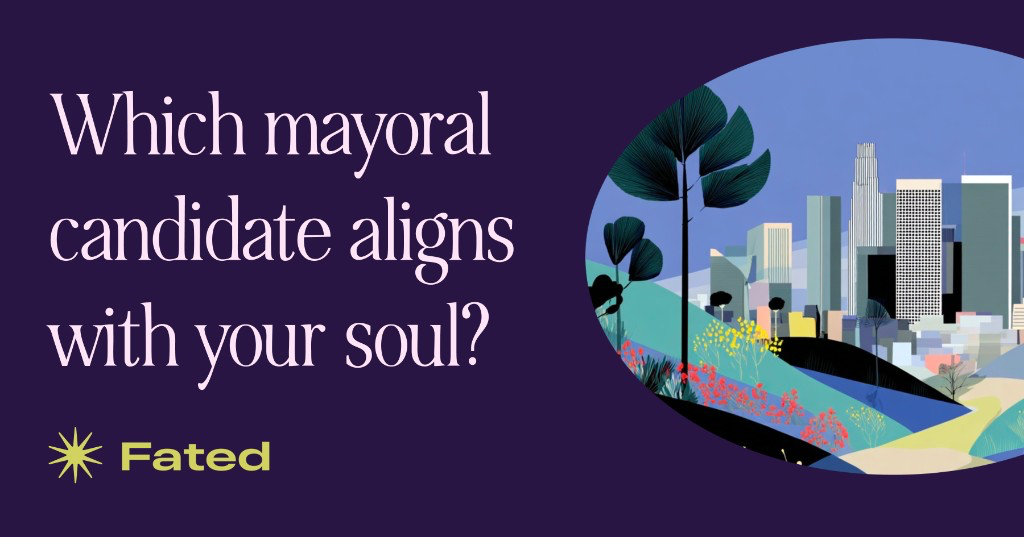
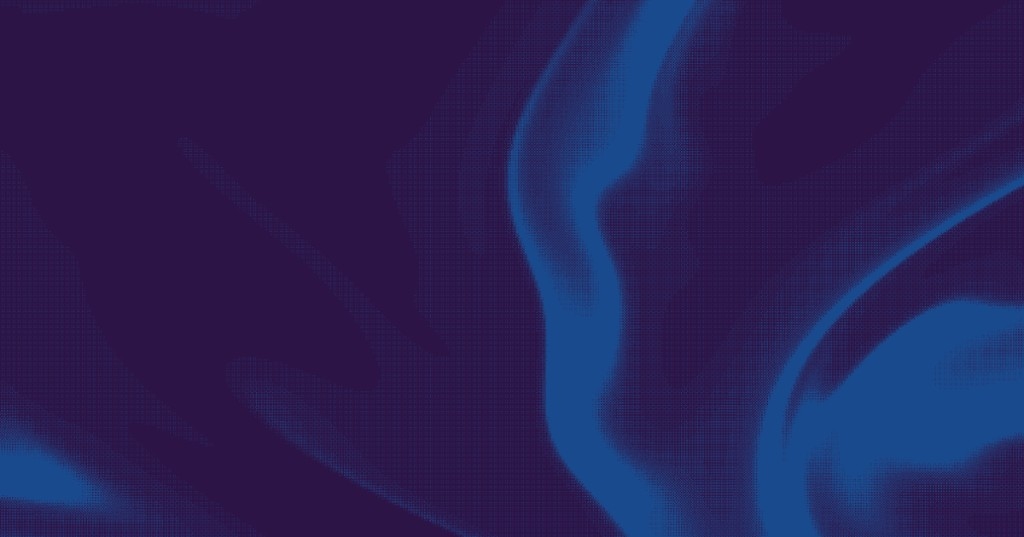
UI: polish homepage/result presentation and footer links
Refines card labeling, homepage/footer copy and link styling, updates share spacing behavior, and swaps the social preview image to align the election experience with current messaging and visual direction.

diff --git a/src/components/ResultPage.js b/src/components/ResultPage.js
@@ -71,7 +71,7 @@ const LargeCard = ({
           <ResultTiltCard style={{ position: 'relative', width: '100%', height: '100%' }}>
             <div style={{ backgroundColor: pink, borderRadius: '6px', boxShadow: largeCardShadow, height: '100%', outline: `1px solid ${purple}`, position: 'relative', width: '100%' }}>
               <div style={{ color: purple, fontFamily: monoPro, fontSize: '20px', left: '50%', letterSpacing: '0.05em', lineHeight: '24px', position: 'absolute', textAlign: 'center', top: 27, transform: 'translateX(-50%)', width: 276, zIndex: 1 }}>
-                {name}
+                {arcana}
               </div>
               {img && (
                 <div
@@ -91,7 +91,7 @@ const LargeCard = ({
                 />
               )}
               <div style={{ color: purple, fontFamily: monoPro, fontSize: '20px', left: '50%', letterSpacing: '0.05em', lineHeight: '24px', position: 'absolute', textAlign: 'center', top: 461, transform: 'translateX(-50%)', width: 294, zIndex: 1 }}>
-                {arcana}
+                {name}
               </div>
             </div>
           </ResultTiltCard>
@@ -150,7 +150,7 @@ const LargeCard = ({
               width: '100%',
             }}
           >
-            <div style={titleStyle}>{name}</div>
+            <div style={titleStyle}>{arcana}</div>
             {img && (
               <div
                 style={{
@@ -162,7 +162,13 @@ const LargeCard = ({
                 }}
               >
                 <img
-                  alt={name ? `${name} illustration` : 'Tarot card illustration'}
+                  alt={
+                    name && arcana
+                      ? `${arcana}, ${name} illustration`
+                      : name
+                        ? `${name} illustration`
+                        : 'Tarot card illustration'
+                  }
                   src={img}
                   style={{
                     display: 'block',
@@ -174,7 +180,7 @@ const LargeCard = ({
                 />
               </div>
             )}
-            <div style={titleStyle}>{arcana}</div>
+            <div style={titleStyle}>{name}</div>
           </div>
         </ResultTiltCard>
       </div>
@@ -239,6 +245,13 @@ const SHARE_BAR_ROW_MIN_PX = 54
 const SHARE_BAR_PADDING_BOTTOM_PX = 16
 /** Backdrop blur only reaches this far above the button row (gradient still fades higher). */
 const SHARE_BAR_BLUR_ABOVE_BUTTONS_PX = 16
+/** Tall top padding on fixed bar backdrop — gradient fades upward; must match scroll clearance calc below. */
+const SHARE_FLOATING_BACKDROP_PADDING_TOP = 'clamp(140px, 32vh, 420px)'
+/**
+ * Bottom padding on `<main>` so scrolled content (e.g. Your Charge) clears the fixed Start over / Share
+ * gradient (same vertical extent as `SHARE_FLOATING_BACKDROP_PADDING_TOP` + button row).
+ */
+const SHARE_FLOATING_BAR_SCROLL_CLEARANCE = `calc(${SHARE_FLOATING_BACKDROP_PADDING_TOP} + ${SHARE_BAR_ROW_MIN_PX}px + ${SHARE_BAR_PADDING_BOTTOM_PX}px + 24px + env(safe-area-inset-bottom, 0px))`
 
 const SHARE_BACKDROP_DEFAULTS = {
   background:
@@ -297,7 +310,7 @@ const ShareFloatingBar = ({ desktop, children }) => {
     paddingBottom: `calc(${SHARE_BAR_PADDING_BOTTOM_PX}px + env(safe-area-inset-bottom, 0px))`,
     paddingLeft: 0,
     paddingRight: 0,
-    paddingTop: 'clamp(140px, 32vh, 420px)',
+    paddingTop: SHARE_FLOATING_BACKDROP_PADDING_TOP,
     position: 'relative',
     WebkitBackdropFilter: d.WebkitBackdropFilter,
     width: '100%',
@@ -900,15 +913,16 @@ const ResultPage = ({
           <TopBar />
           <ClientOnlyDithering
             className="site-hero-dither"
+            instantReveal
             speed={0.27}
             shape="warp"
             type="4x4"
             size={0.2}
             scale={1}
-            colorBack="#00000000"
-            colorFront="#274988"
+            colorBack="#274988"
+            colorFront="#291543"
             style={{
-              backgroundColor: '#291543',
+              backgroundColor: '#274988',
               height: '1031px',
               left: '50%',
               position: 'absolute',
@@ -990,8 +1004,8 @@ const ResultPage = ({
                 type="8x8"
                 size={0.3}
                 scale={0.53}
-                colorBack="#00000000"
-                colorFront="#5E67AA"
+                colorBack="#5E67AA"
+                colorFront="#291543"
                 style={{ bottom: 0, left: 0, position: 'absolute', right: 0, top: 0, width: '100%', zIndex: 0 }}
               />
               <div style={{ position: 'relative', textAlign: 'center', zIndex: 1 }}>
@@ -1067,6 +1081,15 @@ const ResultPage = ({
             {charge}
           </div>
         </div>
+        <div
+          aria-hidden="true"
+          style={{
+            backgroundColor: '#5E67AC',
+            height: SHARE_FLOATING_BAR_SCROLL_CLEARANCE,
+            minHeight: SHARE_FLOATING_BAR_SCROLL_CLEARANCE,
+            width: '100%',
+          }}
+        />
       </main>
     )
   }
@@ -1092,14 +1115,15 @@ const ResultPage = ({
 
         <ClientOnlyDithering
           className="site-hero-dither"
+          instantReveal
           speed={0.27}
           shape="warp"
           type="4x4"
           size={0.2}
           scale={1}
-          colorBack="#00000000"
-          colorFront="#274988"
-          style={{ backgroundColor: '#291543', height: '823px', left: 0, position: 'absolute', top: 0, width: '100%', zIndex: 0 }}
+          colorBack="#274988"
+          colorFront="#291543"
+          style={{ backgroundColor: '#274988', height: '823px', left: 0, position: 'absolute', top: 0, width: '100%', zIndex: 0 }}
         />
         <ShareButton title={drew?.replace('\n', '')} text={shareText || soulCandidate} desktop={false} shareImageUrl={shareImage} />
 
@@ -1155,8 +1179,8 @@ const ResultPage = ({
                   type="8x8"
                   size={0.3}
                   scale={0.53}
-                  colorBack="#00000000"
-                  colorFront="#5E67AA"
+                  colorBack="#5E67AA"
+                  colorFront="#291543"
                   style={{ height: '696px', left: 0, position: 'absolute', top: 0, width: '100%', zIndex: 0 }}
                 />
                 <div style={{ color: pink, fontFamily: noirBold, fontSize: '24px', lineHeight: '32px', position: 'relative', textAlign: 'center', whiteSpace: 'pre-wrap', zIndex: 1 }}>
@@ -1239,6 +1263,15 @@ const ResultPage = ({
               {charge}
             </div>
           </div>
+          <div
+            aria-hidden="true"
+            style={{
+              backgroundColor: '#5E67AC',
+              height: SHARE_FLOATING_BAR_SCROLL_CLEARANCE,
+              minHeight: SHARE_FLOATING_BAR_SCROLL_CLEARANCE,
+              width: '100%',
+            }}
+          />
 
       </div>
 

diff --git a/src/pages/index.js b/src/pages/index.js
@@ -119,11 +119,11 @@ const TeaserCardStack = ({ activeIndex }) => (
 const CarouselCard = ({ name, arcana, img, imgPosition }) => (
   <div style={{ backgroundColor: pink, boxShadow: `0 0 0 1px ${purple}`, borderRadius: '6px', flexShrink: 0, height: '292px', marginRight: '10px', position: 'relative', width: '155px' }}>
     <div style={{ color: purple, fontFamily: monoPro, fontSize: '10px', left: 0, letterSpacing: '0.05em', lineHeight: '12px', position: 'absolute', textAlign: 'center', top: 12, width: '100%' }}>
-      {name}
+      {arcana}
     </div>
     {img && <div style={{ backgroundImage: `url(${img})`, backgroundPosition: imgPosition || 'center', backgroundSize: 'cover', borderRadius: '2px', boxShadow: `0 0 0 1px ${purple}`, height: '214px', left: 21, position: 'absolute', top: 37, width: '114px' }} />}
     <div style={{ color: purple, fontFamily: monoPro, fontSize: '10px', left: 0, letterSpacing: '0.05em', lineHeight: '12px', position: 'absolute', textAlign: 'center', top: 266, width: '100%' }}>
-      {arcana}
+      {name}
     </div>
   </div>
 )
@@ -131,11 +131,11 @@ const CarouselCard = ({ name, arcana, img, imgPosition }) => (
 const DesktopCandidateCard = ({ name, arcana, img, imgPosition }) => (
   <div style={{ backgroundColor: pink, boxShadow: `0 0 0 1px ${purple}`, borderRadius: '6px', position: 'relative', width: '156px', height: '292px', flexShrink: 0 }}>
     <div style={{ color: purple, fontFamily: monoPro, fontSize: '10px', letterSpacing: '0.05em', lineHeight: '12px', textAlign: 'center', position: 'absolute', left: 'calc(50% + 3px)', top: 13, width: '136px', transform: 'translateX(-50%)' }}>
-      {name}
+      {arcana}
     </div>
     <div style={{ backgroundImage: `url(${img})`, backgroundPosition: imgPosition || 'center', backgroundSize: 'cover', borderRadius: '2px', boxShadow: `0 0 0 1px ${purple}`, width: '114px', height: '214px', position: 'absolute', left: 21, top: 37 }} />
     <div style={{ color: purple, fontFamily: monoPro, fontSize: '10px', letterSpacing: '0.05em', lineHeight: '12px', textAlign: 'center', position: 'absolute', left: '50%', top: 266, width: '136px', transform: 'translateX(-50%)' }}>
-      {arcana}
+      {name}
     </div>
   </div>
 )
@@ -206,14 +206,15 @@ const IntroPage = () => {
         <TopBar />
         <ClientOnlyDithering
           className="site-hero-dither"
+          instantReveal
           speed={0.27}
           shape="warp"
           type="4x4"
           size={0.2}
           scale={1}
-          colorBack="#00000000"
-          colorFront="#274988"
-          style={{ backgroundColor: '#291543', position: 'absolute', left: '50%', transform: 'translateX(-50%)', top: 'var(--hero-dither-top, 0px)', width: '100vw', height: '760px', zIndex: 0 }}
+          colorBack="#274988"
+          colorFront="#291543"
+          style={{ backgroundColor: '#274988', position: 'absolute', left: '50%', transform: 'translateX(-50%)', top: 'var(--hero-dither-top, 0px)', width: '100vw', height: '760px', zIndex: 0 }}
         />
         <div className="page-shell" style={{ position: 'relative', zIndex: 1 }}>
           <div className="desktop-grid-2 hero-grid" style={{ alignItems: 'start', gap: '24px' }}>
@@ -223,7 +224,7 @@ const IntroPage = () => {
               </h1>
               <div style={{ color: '#FFFFFF', fontFamily: fig, fontWeight: heroBodyWeight, fontSize: heroIntroFontSize, lineHeight: 'calc(1.4em + 2px)', margin: '0 0 30px', maxWidth: '430px' }}>
                 <p style={{ margin: '0 0 16px' }}>10 questions. 5 top mayoral candidates.</p>
-                <p style={{ margin: '0 0 28px' }}>L.A.&apos;s primary election on June 2.</p>
+                <p style={{ margin: '0 0 28px' }}>Vote with intention on June 2.</p>
                 <PrimaryCta to="/question-01" fontSize={heroIntroFontSize}>
                   Begin your reading ➝
                 </PrimaryCta>
@@ -257,39 +258,6 @@ const IntroPage = () => {
         </div>
       </section>
 
-      <section className="page-shell intro-how-it-works-shell" style={{ paddingBottom: 'clamp(40px, 6vw, 80px)' }}>
-        <div className="desktop-grid-2" style={{ alignItems: 'center', gap: 'clamp(24px, 4vw, 64px)' }}>
-          <div className="city-image-block">
-            <div
-              className="city-image-inner"
-              style={{
-                width: '100%',
-                maxWidth: '629px',
-              }}
-            >
-              <div className="city-image-tilt-frame">
-                <div
-                  className="city-image-art"
-                  style={{
-                    backgroundImage: 'url(/intro-la-skyline.png)',
-                  }}
-                />
-              </div>
-            </div>
-          </div>
-          <div className="content-column" style={{ maxWidth: '510px' }}>
-            <h2 style={h2Style}>Channel your intuition</h2>
-            <p style={{ color: '#FFFFFF', fontFamily: fig, fontSize: 'var(--body-md)', lineHeight: 'calc(1.5em + 2px)', whiteSpace: 'pre-wrap' }}>
-              Answer 10 questions about Los Angeles—its fires, its failures, its possible futures.{'\n\n'}
-              In the end, your Fated reading will name the candidate whose vision most closely aligns with your own.
-            </p>
-            <div style={{ marginTop: '24px', marginBottom: '48px' }}>
-              <PrimaryCta to="/question-01">Let&apos;s go ➝</PrimaryCta>
-            </div>
-          </div>
-        </div>
-      </section>
-
       <section className="reading-shell" style={{ paddingBottom: 0 }}>
         <div className="reading-panel" style={{ backgroundColor: '#264988', borderRadius: 0, position: 'relative', overflow: 'hidden' }}>
           <ClientOnlyDithering
@@ -298,7 +266,7 @@ const IntroPage = () => {
             type="4x4"
             size={1}
             scale={1.2}
-            colorBack="#00000000"
+            colorBack="#264988"
             colorFront="#291543"
             style={{ position: 'absolute', inset: 0, zIndex: 0 }}
           />
@@ -334,7 +302,7 @@ const IntroPage = () => {
               </ReadingItem>
             </div>
             <div className="reading-cta">
-              <PrimaryCta to="/question-01">Follow fate ➝</PrimaryCta>
+              <PrimaryCta to="/question-01">Follow your fate ➝</PrimaryCta>
             </div>
           </div>
         </div>

diff --git a/src/components/SiteFooter.js b/src/components/SiteFooter.js
@@ -6,7 +6,7 @@ import { useDesktopLayout } from '../hooks/useDesktopLayout'
 const fig = '"FigGrotesk0.3Trial-Regular", "FigGrotesk 0.3 Trial", system-ui, sans-serif'
 const figBold = '"FigGrotesk0.3Trial-Bold", "FigGrotesk 0.3 Trial", system-ui, sans-serif'
 const pink = '#FFE4F7'
-const dark = '#2A009C'
+const dark = '#0C0420'
 
 /**
  * Global About / Methodology / legal footer. Rendered once from the root layout
@@ -38,8 +38,7 @@ const SiteFooter = ({ resultTypography = false }) => {
             <div className="site-footer__prose" style={{ color: '#C2CAF2', fontFamily: fig }}>
               {`Fated was made by Tabitha Yong, Will Peng & Yvonne Leow. We're non-clairvoyant Angelenos who wanted to create a fun, nonpartisan way to fulfill our civic duty this election.`}
             </div>
-            <div className="site-footer__prose" style={{ color: pink, fontFamily: figBold, marginBottom: '24px', marginTop: '32px' }}>Connect</div>
-            <div className="site-footer__prose" style={{ color: '#C2CAF2', fontFamily: fig }}>
+            <div className="site-footer__prose" style={{ color: '#C2CAF2', fontFamily: fig, marginTop: '32px' }}>
               Experiencing resistance? Emotional release?{' '}
               <a
                 href={getContactMailtoHref()}
@@ -59,11 +58,11 @@ const SiteFooter = ({ resultTypography = false }) => {
                 rel="noopener noreferrer"
                 className="site-footer-link"
               >
-                See the full list of candidates ➝
+                See all candidates ➝
               </a>
               {`
 
-Candidate positions are based on publicly accessible information, like their campaigns or their constituents' experiences. Like our fates, they might change in time. `}
+Candidate positions are based on publicly accessible information. Like our fates, they might change with time. `}
               {sourcesIsInternal ? (
                 <Link to={sourcesUrl} className="site-footer-link">
                   See our sources. ➝

diff --git a/src/layouts/index.css b/src/layouts/index.css
@@ -78,9 +78,23 @@ body {
   -moz-osx-font-smoothing: grayscale;
 }
 
+/* Inline text links — former underline color becomes fill; hover matches former underline hover */
 a {
   text-decoration: none;
-  color: inherit;
+  color: rgb(111, 121, 246);
+  transition: color 0.2s ease;
+}
+
+a:hover {
+  color: #7b56d2;
+}
+
+a:visited {
+  color: rgb(111, 121, 246);
+}
+
+a:visited:hover {
+  color: #7b56d2;
 }
 
 .result-tilt-shell {
@@ -136,20 +150,11 @@ a {
 }
 
 /*
- * Hero “oval” CSS fallbacks — radial gradient on body/main — off at ≤640px.
- * WebGL hero dither (`.site-hero-dither`) stays visible; keep gradient off to avoid double paint.
- * (Includes 640px so responsive presets / drag resize at the breakpoint match.)
+ * Mobile-only layout tweaks at ≤640px (includes 640px for responsive tooling).
+ * Keep SSR/body radial gradients on — prod devices often block or drop WebGL; without a CSS
+ * fallback the hero reads as flat #291543. Shader paints above when WebGL is available.
  */
 @media (max-width: 640px) {
-  body {
-    background-image: none !important;
-  }
-
-  main.home-page,
-  html.page-results #main-content {
-    background-image: none !important;
-  }
-
   /* Must win over base `.city-image-block { display: flex }` later in this file */
   .city-image-block {
     display: none !important;
@@ -375,17 +380,6 @@ button.result-scroll-hint:focus-visible {
     font-size: 16px;
     line-height: 24px;
   }
-}
-
-.site-footer-link {
-  color: inherit;
-  text-decoration: none;
-  border-bottom: 1.5px solid rgba(111, 121, 246, 1);
-  transition: border-color 0.2s ease;
-}
-
-.site-footer-link:hover {
-  border-bottom-color: #7b56d2;
 }
 
 /** Tarot result routes (`ResultPage`) — extra space below legal line */

diff --git a/src/components/TopBar.js b/src/components/TopBar.js
@@ -48,7 +48,7 @@ const TopBar = () => {
         <Link
           to="/"
           className="top-bar__brand top-bar__brand-link"
-          aria-label="Fated LA home"
+          aria-label="FATED.VOTE home"
           onMouseEnter={() => setStarSpinDurationMs(starRef.current, STAR_SPIN_FAST_MS)}
           onMouseLeave={() => setStarSpinDurationMs(starRef.current, STAR_SPIN_SLOW_MS)}
         >
@@ -65,7 +65,7 @@ const TopBar = () => {
           >
             <path d={starPath} fill="#D2D260" />
           </svg>
-          <span className="top-bar__wordmark">Fated</span>
+          <span className="top-bar__wordmark">FATED.VOTE</span>
         </Link>
         <div className="top-bar__election-wrap">
           <span className="top-bar__divider" aria-hidden="true" />
